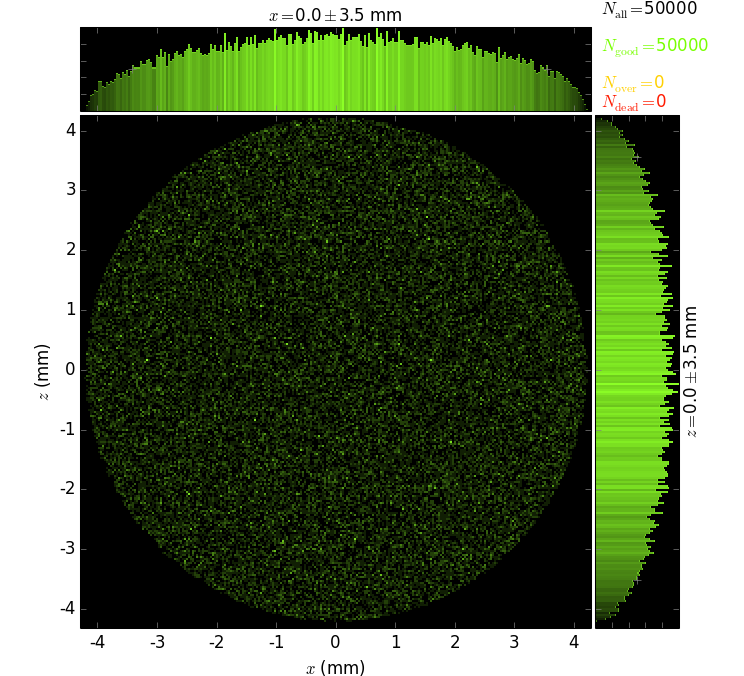
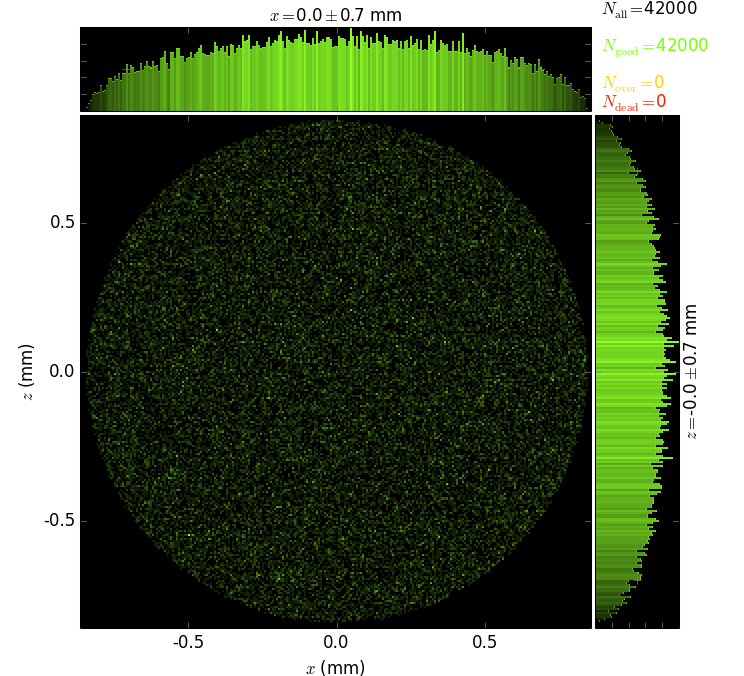
mess

diff --git a/myCapillary0A.py b/myCapillary0A.py
@@ -94,7 +94,7 @@ def build_beamline(nrays=1000):
         beamLine, 'GeometricSource', (0, 0, 0), nrays=nrays,
         dx=0., dz=0., distxprime='annulus',
         distE='lines', energies=(E0,), polarization='horizontal')
-    beamLine.fsm1 = rsc.Screen(beamLine, 'DiamondFSM1', (0, 5*rSample, 0))
+    beamLine.fsm1 = rsc.Screen(beamLine, 'DiamondFSM1', (0, rSample, 0))
     beamLine.capillaries = []
     beamLine.firstInLayer = []
     beamLine.xzMax = 0
